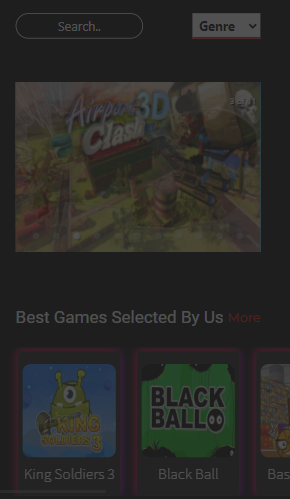
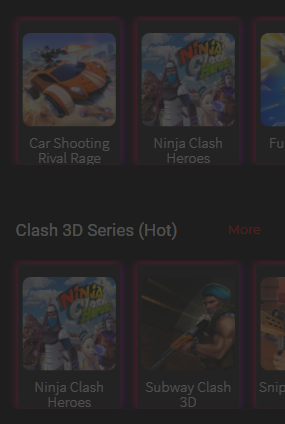
Changed Wgp background image

diff --git a/react/component/Project/Project.module.css b/react/component/Project/Project.module.css
@@ -26,7 +26,7 @@
 }
 
 .project_li:nth-child(2) > .project_text {
-  /* background: url(/assets/mobile/Wgp.png); */
+  background: url(/assets/mobile/Wgp.png);
   background-repeat: no-repeat;
   background-size: cover;
 }
